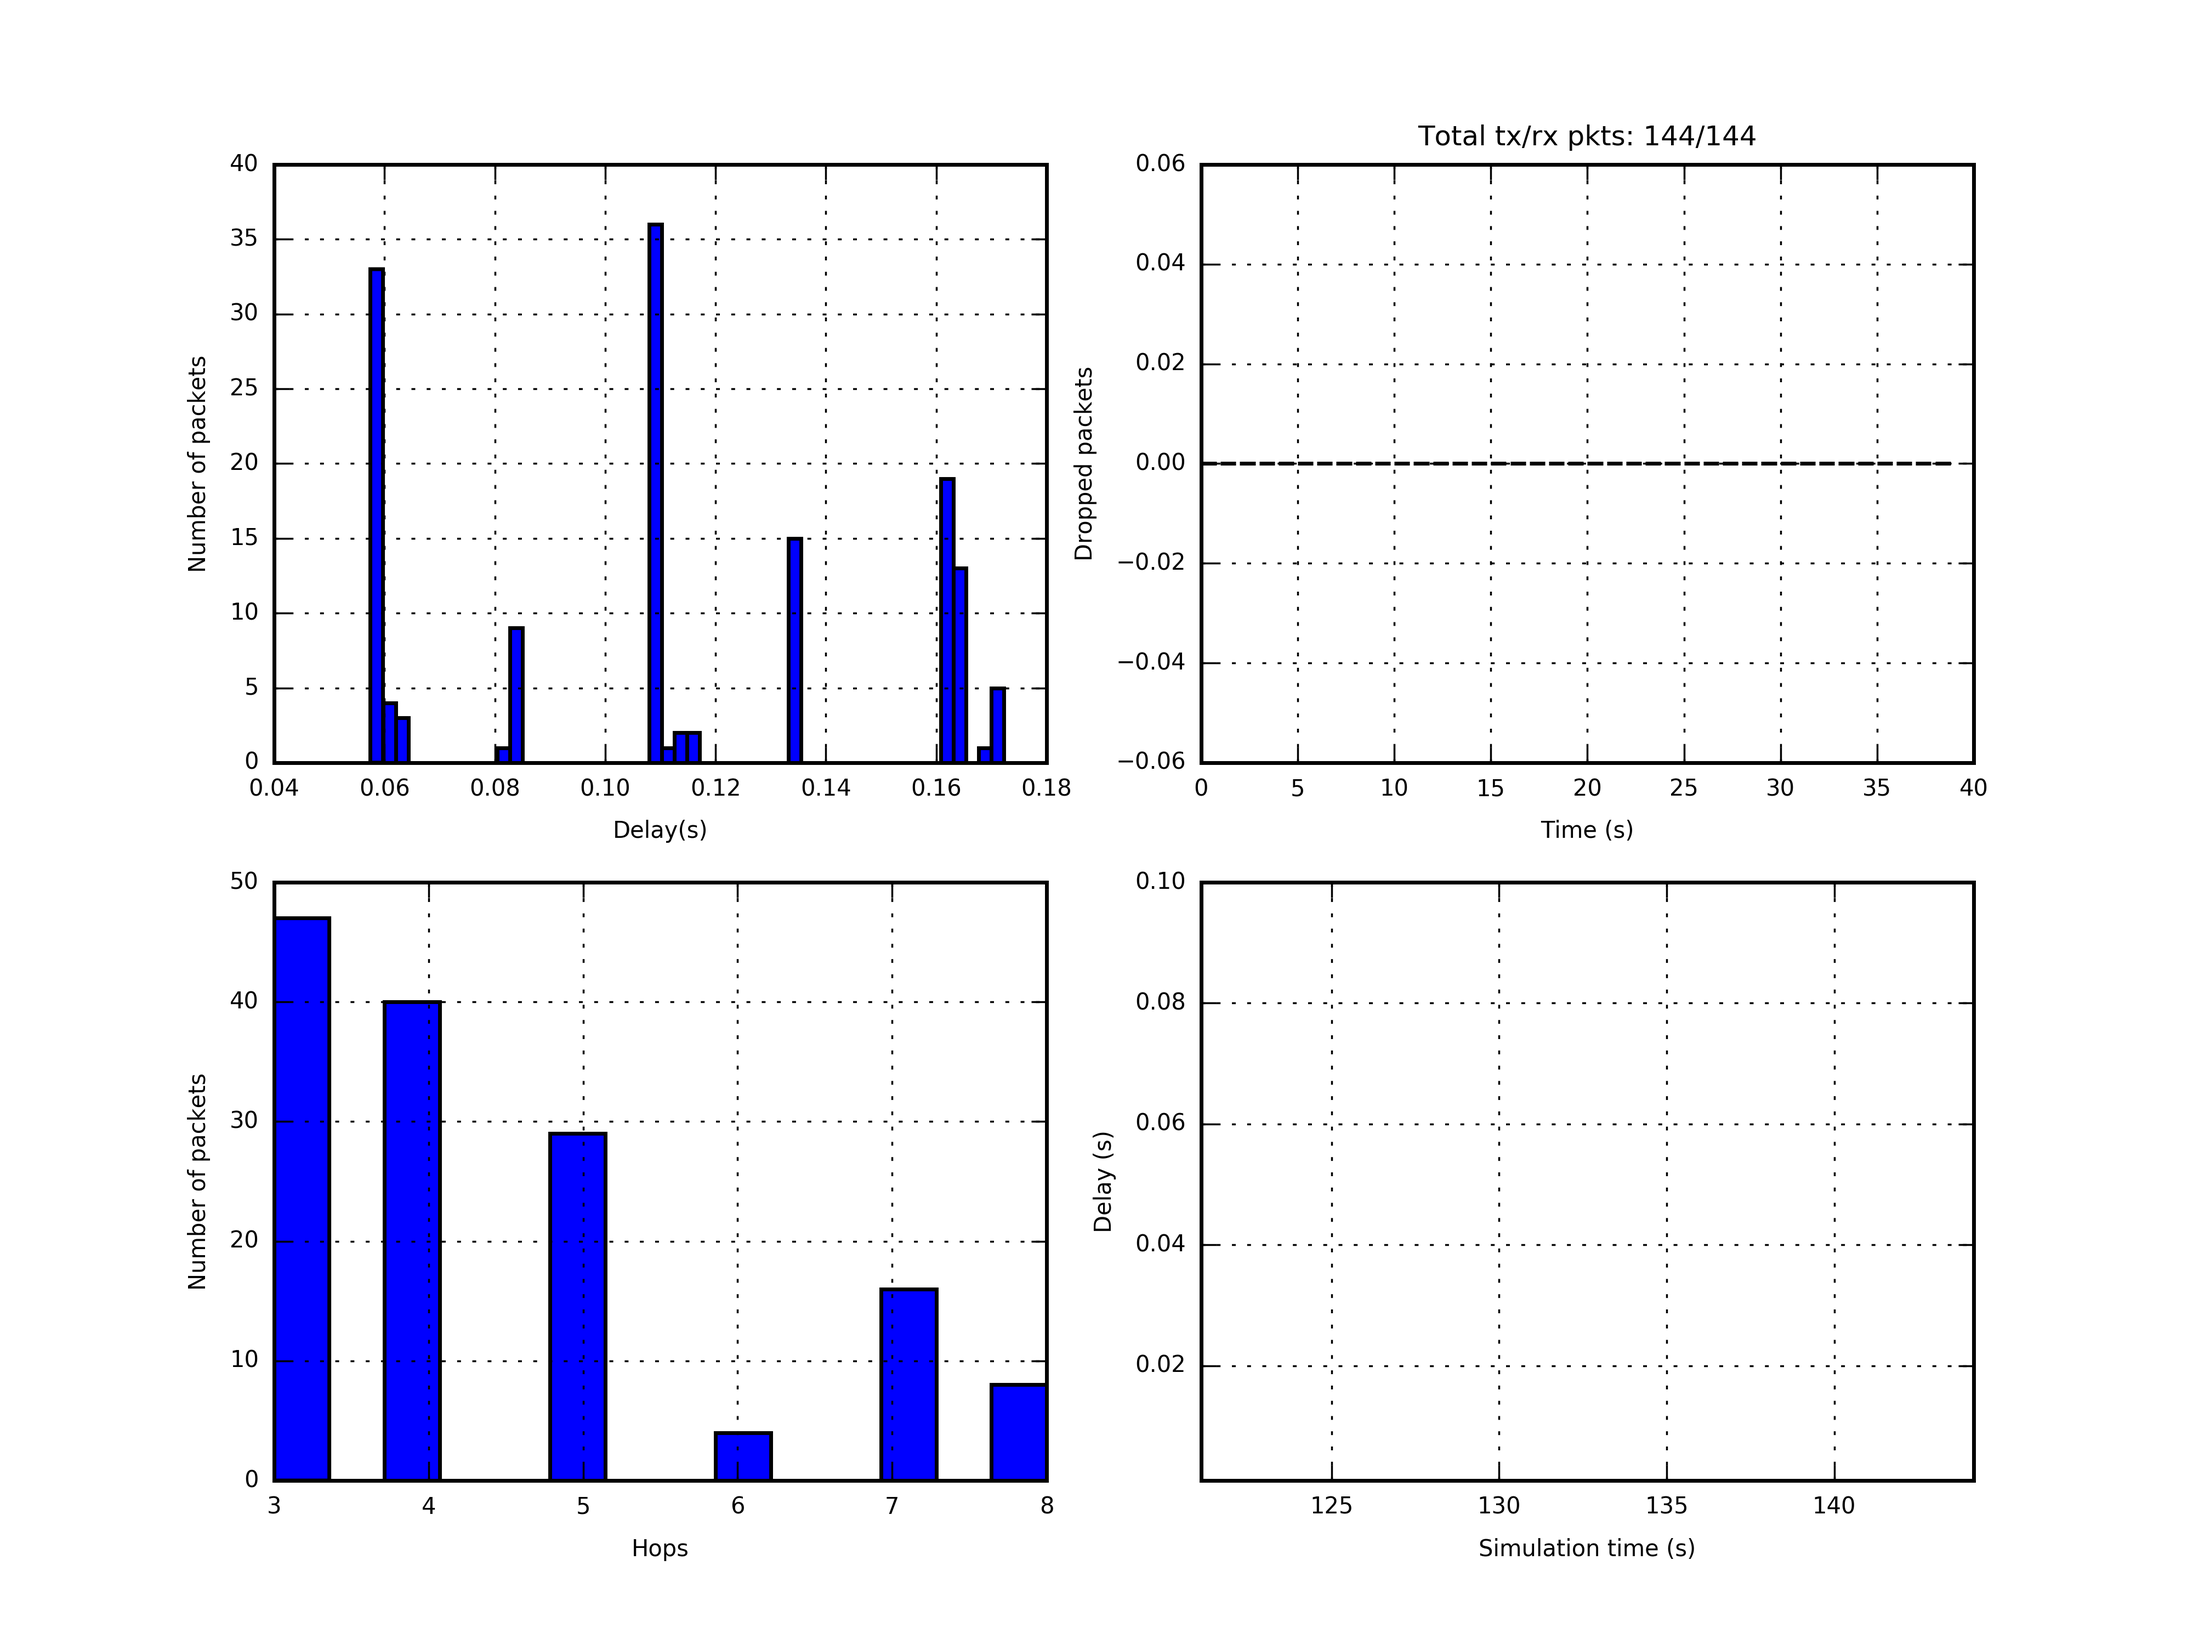
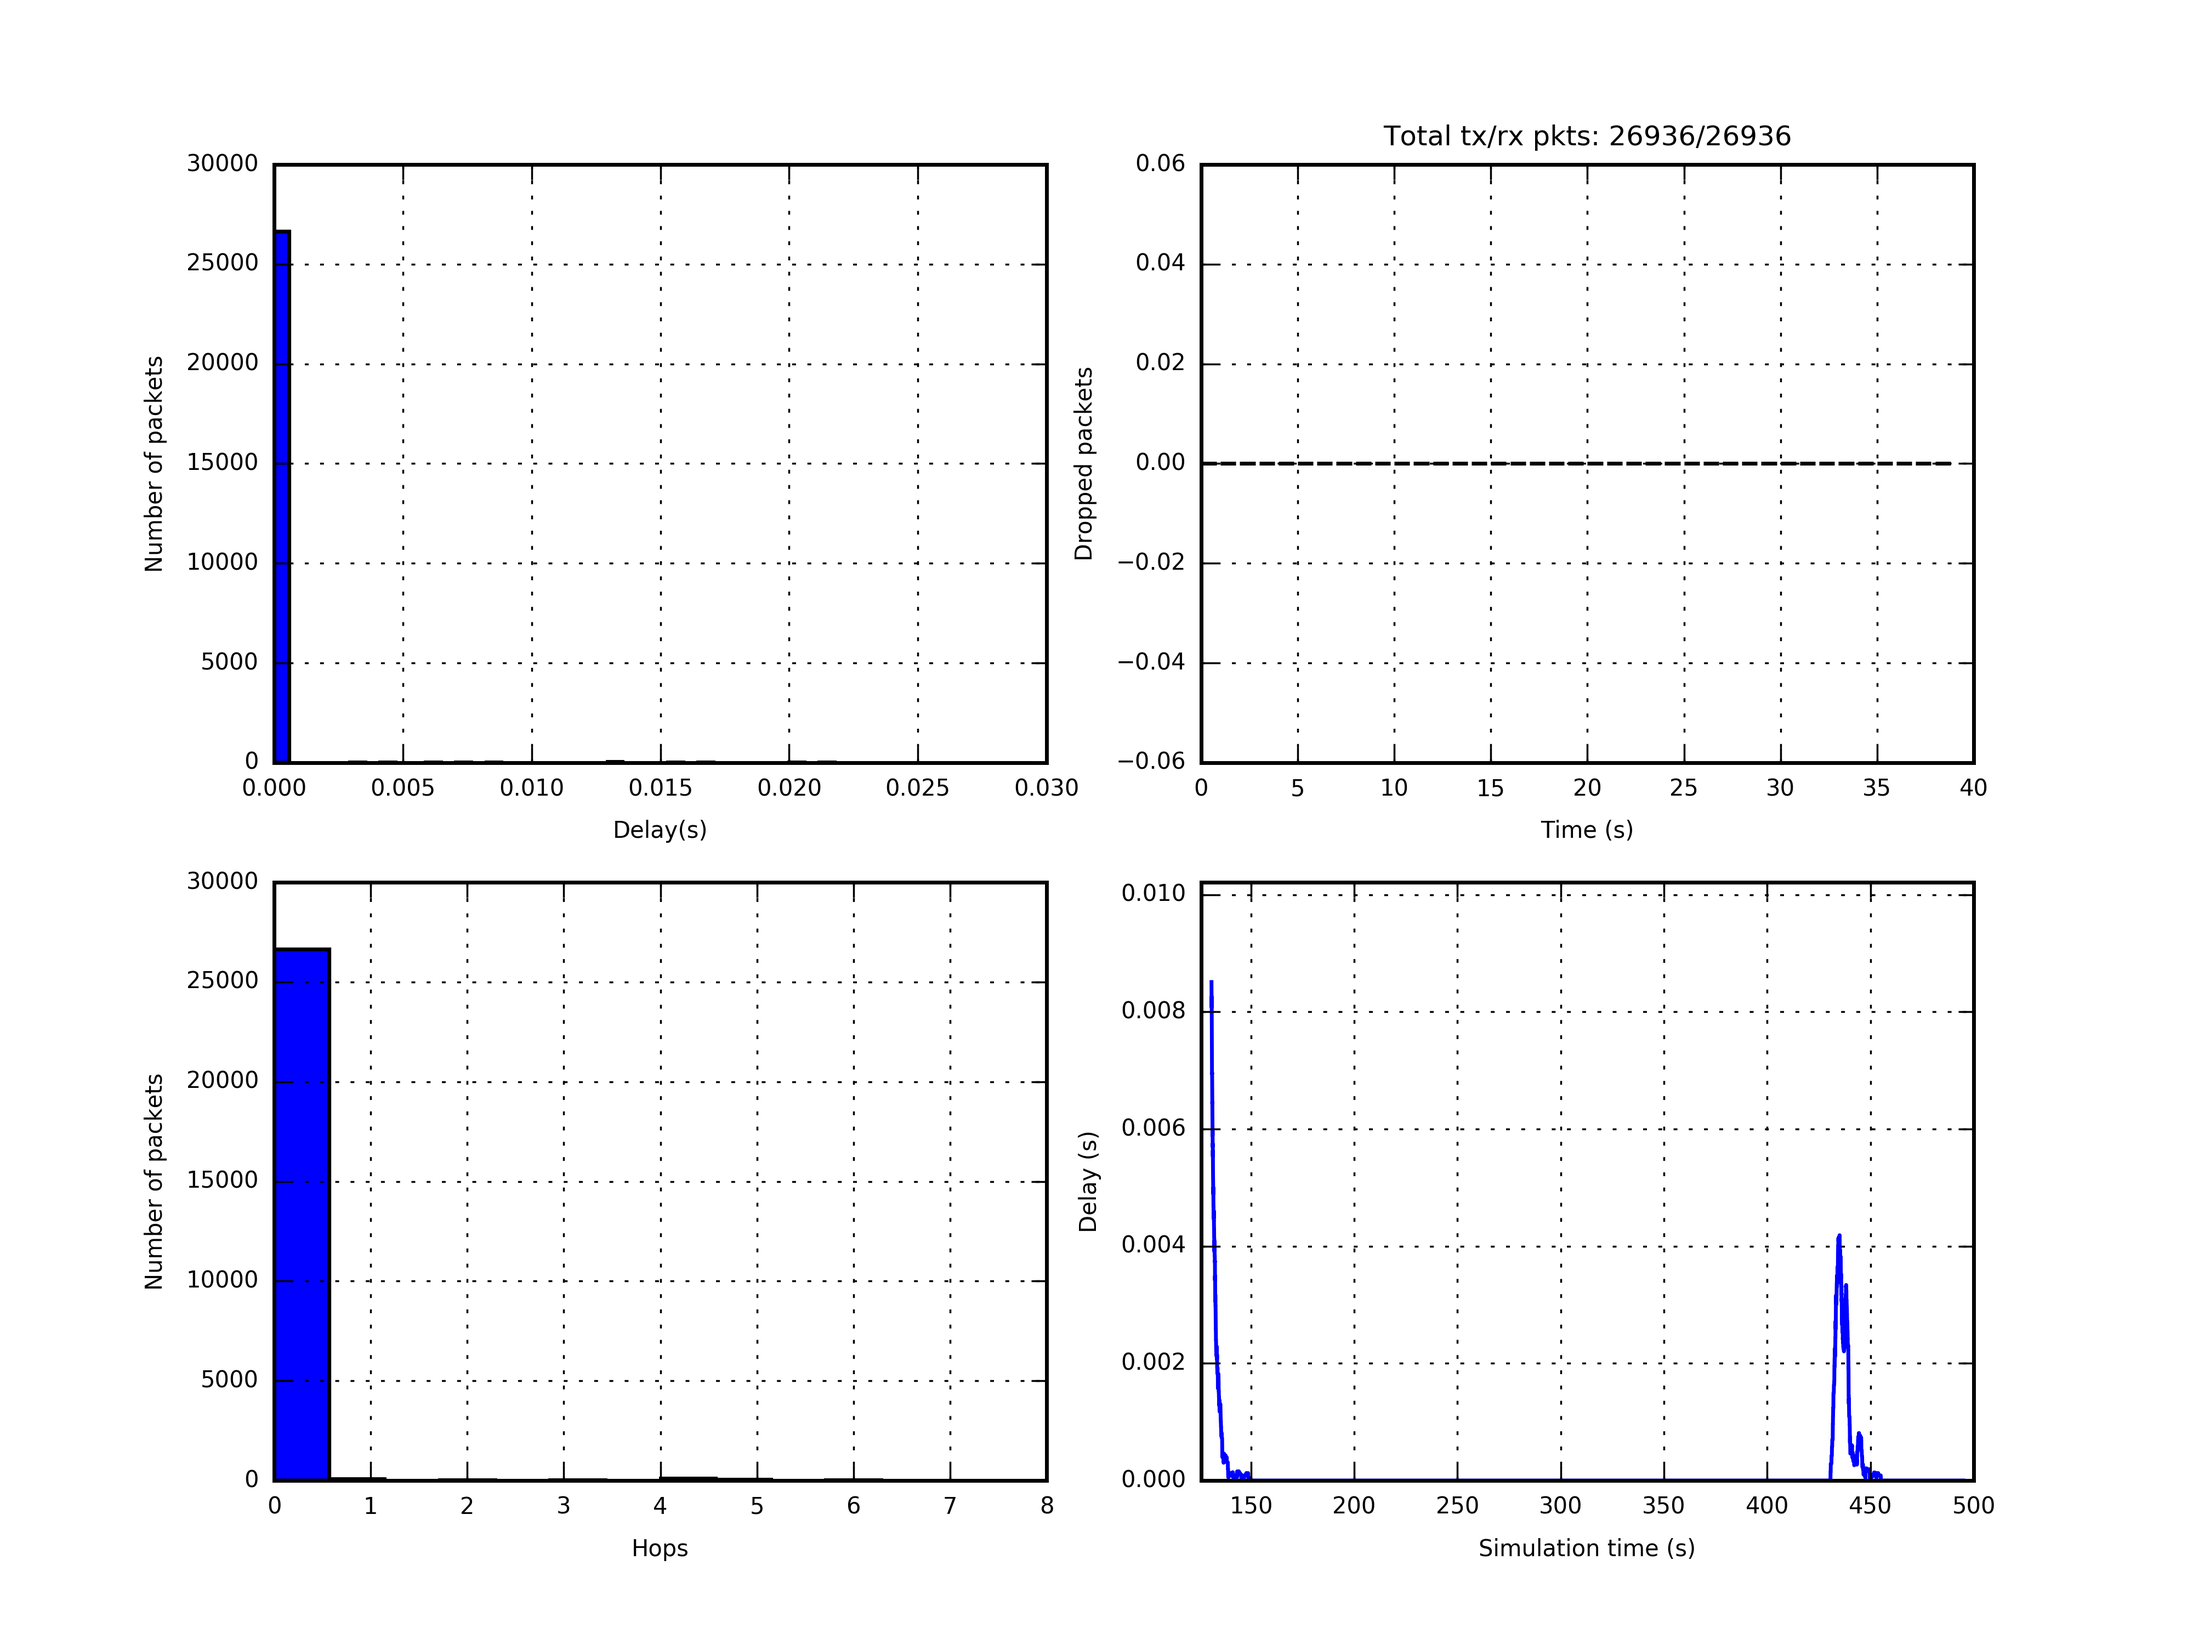
Parsing script updates

diff --git a/parser/parse_ip.py b/parser/parse_ip.py
@@ -119,10 +119,10 @@ pylab.text(0.05 * max(x), 90, 'Total tx/rx pkts: ' + str(int(tot_trans)) + "/" +
            bbox={'facecolor': 'red', 'alpha': 0.5, 'pad': 10})
 pylab.bar(x, (num_tx - num_rx) / num_tx * 100, color='g',align='center')
 pylab.subplot(224)
-pylab.plot(hops, 'go')
-pylab.ylabel("Average number of hops")
-pylab.xlabel("Packet sequence number")
-pylab.grid(True)
+pylab.plot(time, delay)
+pylab.xlabel("Simulation time (s)")
+pylab.ylabel("Delay (s)")
+
 fig = pylab.gcf()
 fig.canvas.set_window_title(sys.argv[1])
 pylab.savefig("metricsip.pdf")

diff --git a/parser/parsendn_hpc.py b/parser/parsendn_hpc.py
@@ -129,7 +129,7 @@ pylab.subplot(224)
 pylab.plot(time_moving, moving_aves)
 pylab.xlabel("Simulation time (s)")
 pylab.ylabel("Delay (s)")
-pylab.axis([np.amin(time_filtered), np.amax(time_filtered), 0.001, 0.1])
+pylab.axis([np.amin(time_filtered)-5, np.amax(time_filtered)+5, 0, max(moving_aves)*1.2])
 pylab.grid(True)
 
 fig = pylab.gcf()
